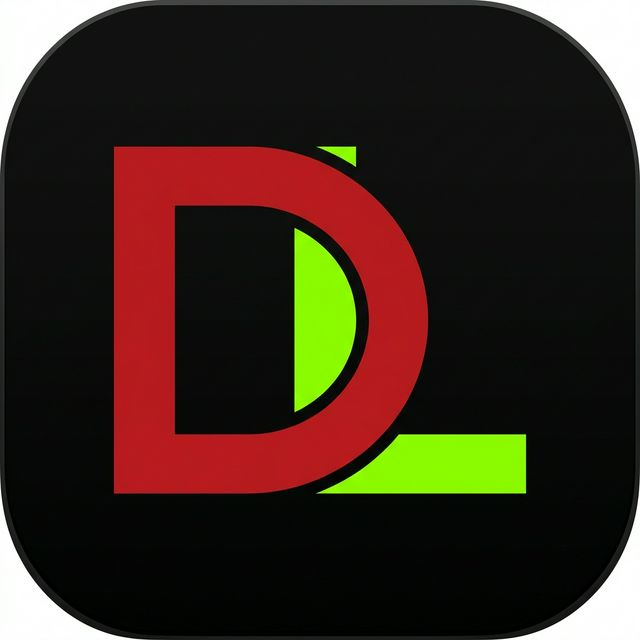
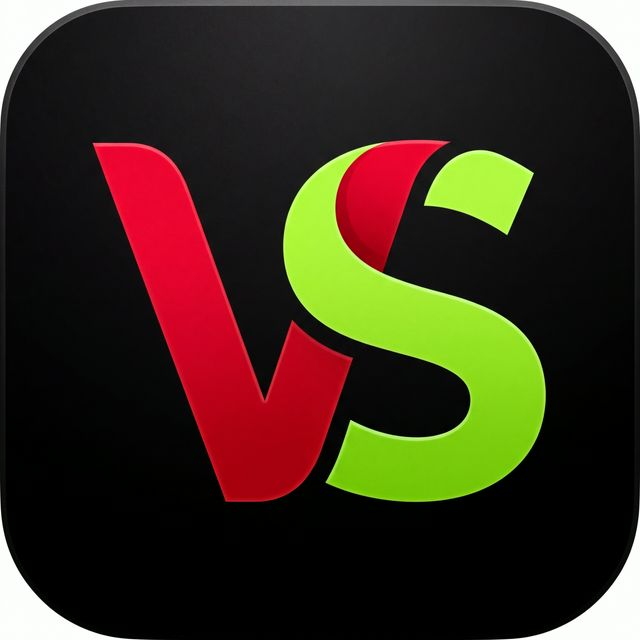
feat: complete rebranding to VibeSoko and implement multi-user sign-up

diff --git a/frontend/src/pages/Login.tsx b/frontend/src/pages/Login.tsx
@@ -11,6 +11,8 @@ export const Login: React.FC = () => {
   const [error, setError] = useState('');
   const [loading, setLoading] = useState(false);
   const [mustChangePassword, setMustChangePassword] = useState(false);
+  const [isRegistering, setIsRegistering] = useState(false);
+  const [shopName, setShopName] = useState('');
   const [authToken, setAuthToken] = useState('');
   const { dispatch, notify } = useAppContext();
   const navigate = useNavigate();
@@ -49,6 +51,35 @@ export const Login: React.FC = () => {
       navigate('/dashboard/live');
     } catch (err: any) {
       notify('Cannot reach server. Is the backend running?', 'error');
+      setLoading(false);
+    }
+  };
+
+  const handleRegister = async (e: React.FormEvent) => {
+    e.preventDefault();
+    if (!shopName) return notify('Shop name is required', 'error');
+    setLoading(true);
+
+    try {
+      const res = await fetch(`${API}/api/auth/register`, {
+        method: 'POST',
+        headers: { 'Content-Type': 'application/json' },
+        body: JSON.stringify({ email, password, shop_name: shopName })
+      });
+
+      const data = await res.json();
+      if (!res.ok) {
+        notify(data.error || 'Registration failed', 'error');
+        setLoading(false);
+        return;
+      }
+
+      localStorage.setItem('dukalive_token', data.token);
+      dispatch({ type: 'SET_USER', payload: { ...data.user, token: data.token } as any });
+      notify('Welcome to VibeSoko!', 'success');
+      navigate('/dashboard/live');
+    } catch (err: any) {
+      notify('Cannot reach server', 'error');
       setLoading(false);
     }
   };
@@ -147,12 +178,21 @@ export const Login: React.FC = () => {
     <div className="min-h-screen bg-bg-base flex flex-col items-center justify-center p-6 pb-32">
       <div className="w-full max-w-sm">
         <div className="text-center mb-10 text-brand-primary">
-          <h1 className="font-display font-bold text-5xl tracking-wider mb-2">DukaLive</h1>
-          <p className="font-body text-text-secondary text-sm uppercase tracking-widest">v2.1.0-cloud • 2026-03-27</p>
+          <h1 className="font-display font-bold text-5xl tracking-wider mb-2">VibeSoko</h1>
+          <p className="font-body text-text-secondary text-sm uppercase tracking-widest">v2.2.0 • 2026-03-27</p>
         </div>
 
-        <form onSubmit={handleLogin} className="flex flex-col gap-4">
-          {error && <div className="bg-status-fraud/10 text-status-fraud p-3 rounded font-body text-sm border border-status-fraud text-center">{error}</div>}
+        <form onSubmit={isRegistering ? handleRegister : handleLogin} className="flex flex-col gap-4">
+          {isRegistering && (
+            <input
+              type="text"
+              value={shopName}
+              onChange={e => setShopName(e.target.value)}
+              placeholder="Shop Name (e.g. My Style Hub)"
+              className="bg-bg-input border border-border-subtle rounded p-4 text-text-primary font-body focus:outline-none focus:border-brand-primary transition-colors"
+              required
+            />
+          )}
 
           <input
             type="email"
@@ -177,9 +217,19 @@ export const Login: React.FC = () => {
             disabled={loading}
             className="mt-4 bg-brand-primary text-black font-display font-bold text-xl py-4 rounded transition-transform active:scale-[0.98] disabled:opacity-50 tracking-wide"
           >
-            {loading ? 'AUTHENTICATING...' : 'SIGN IN'}
+            {loading ? 'PROCESSING...' : (isRegistering ? 'CREATE SHOP' : 'SIGN IN')}
           </button>
         </form>
+
+        <p className="text-center mt-8 text-text-secondary font-body text-sm">
+          {isRegistering ? 'Already have a shop?' : 'Want to sell on VibeSoko?'}
+          <button 
+            onClick={() => setIsRegistering(!isRegistering)}
+            className="ml-2 text-brand-primary font-bold underline"
+          >
+            {isRegistering ? 'Sign In' : 'Create Account'}
+          </button>
+        </p>
       </div>
     </div>
   );

diff --git a/backend/routes/auth.js b/backend/routes/auth.js
@@ -4,6 +4,44 @@ const bcrypt = require('bcryptjs');
 const crypto = require('crypto');
 const { getDb } = require('../lib/database');
 
+// POST /api/auth/register
+router.post('/register', (req, res) => {
+  const { email, password, shop_name } = req.body;
+  if (!email || !password || !shop_name) {
+    return res.status(400).json({ error: 'Email, password, and shop name are required' });
+  }
+
+  const db = getDb();
+  
+  // Check if email already exists
+  const existing = db.prepare('SELECT id FROM profiles WHERE email = ?').get(email.toLowerCase().trim());
+  if (existing) {
+    return res.status(400).json({ error: 'Email already in use' });
+  }
+
+  try {
+    const id = crypto.randomUUID();
+    const hash = bcrypt.hashSync(password, 10);
+    const webhookToken = 'tok_' + crypto.randomBytes(6).toString('hex');
+
+    db.prepare(`
+      INSERT INTO profiles (id, email, password_hash, must_change_password, role, shop_name, webhook_token)
+      VALUES (?, ?, ?, 0, 'seller', ?, ?)
+    `).run(id, email.toLowerCase().trim(), hash, shop_name, webhookToken);
+
+    // Auto-login after registration
+    const token = crypto.randomBytes(32).toString('hex');
+    const expires = new Date(Date.now() + 7 * 24 * 60 * 60 * 1000).toISOString();
+    db.prepare('INSERT INTO auth_tokens (token, user_id, expires_at) VALUES (?, ?, ?)').run(token, id, expires);
+
+    const user = db.prepare('SELECT id, email, role, shop_name FROM profiles WHERE id = ?').get(id);
+    res.json({ message: 'Account created', token, user });
+  } catch (err) {
+    console.error(err);
+    res.status(500).json({ error: 'Failed to create account' });
+  }
+});
+
 // POST /api/auth/login
 router.post('/login', (req, res) => {
   const { email, password } = req.body;

diff --git a/frontend/index.html b/frontend/index.html
@@ -3,13 +3,13 @@
   <head>
     <meta charset="UTF-8" />
     <meta name="viewport" content="width=device-width, initial-scale=1.0, maximum-scale=1.0, user-scalable=no" />
-    <title>DukaLive — Sell on TikTok Live</title>
-    <meta name="description" content="The ultimate companion app for social sellers. Manage orders, verify payments, and scale your TikTok Live business.">
+    <title>VibeSoko — Sell on TikTok Live</title>
+    <meta name="description" content="The ultimate companion app for social sellers. Manage orders, verify payments, and scale your TikTok Live business with VibeSoko.">
     
     <!-- Open Graph / Social Media -->
     <meta property="og:type" content="website">
-    <meta property="og:title" content="DukaLive — Sell on TikTok Live">
-    <meta property="og:description" content="Manage your TikTok Live sales with ease. Order tracking, MPESA verification, and PWA support.">
+    <meta property="og:title" content="VibeSoko — Sell on TikTok Live">
+    <meta property="og:description" content="Manage your TikTok Live sales with ease. Order tracking, MPESA verification, and PWA support. Powered by VibeSoko.">
     <meta property="og:image" content="/icon-512.png">
 
     <!-- PWA Setup -->

diff --git a/backend/lib/database.js b/backend/lib/database.js
@@ -247,7 +247,7 @@ function init() {
 
     db.prepare(`
       INSERT INTO profiles (id, email, password_hash, must_change_password, role, shop_name, webhook_token)
-      VALUES (?, ?, ?, 1, 'seller', 'My Duka', ?)
+      VALUES (?, ?, ?, 1, 'seller', 'My VibeSoko Shop', ?)
     `).run(id, 'seller@dukalive.local', hash, token);
 
     console.log('');

diff --git a/LEGAL.md b/LEGAL.md
@@ -1,4 +1,4 @@
-# DukaLive — Privacy Policy (Draft)
+# VibeSoko — Privacy Policy (Draft)
 
 *Last Updated: March 27, 2026*
 
